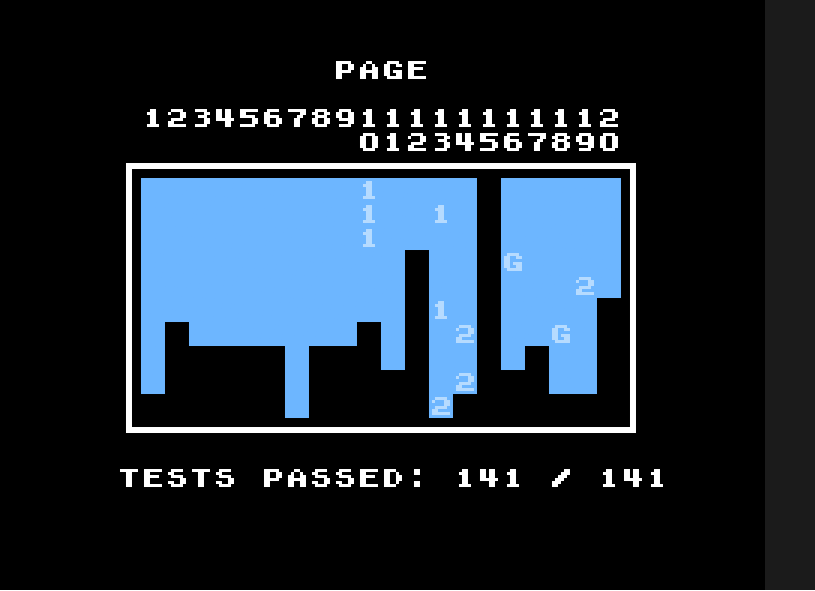
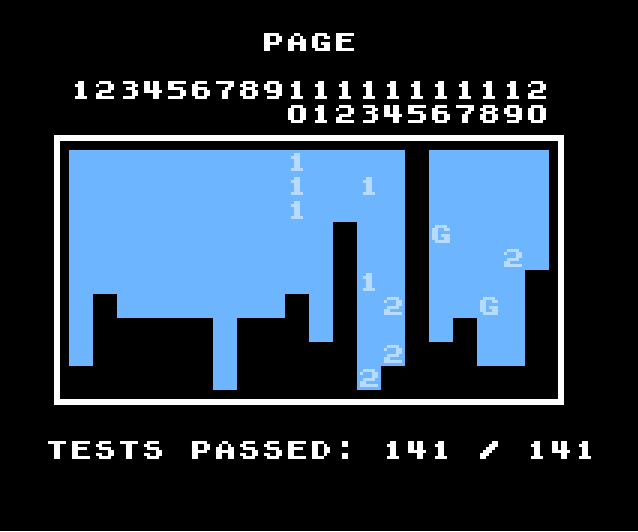
Center updated accuracy results image

Changed region(s): [[0.0, 0.0, 1.0, 1.0]]

diff --git a/README.md b/README.md
@@ -18,7 +18,9 @@ RetroAchievements support.
 [AccuracyCoin's](https://github.com/100thCoin/AccuracyCoin) NTSC NES accuracy
 suite.**
 
-![AccuracyCoin results showing all 141 tests passing](docs/accuracycoin-141-of-141.png)
+<p align="center">
+  <img src="docs/accuracycoin-141-of-141.png" alt="AccuracyCoin results showing all 141 tests passing">
+</p>
 
 That makes CrabNes highly accurate by this measured standard, but no test suite
 can cover every game, mapper, or hardware edge case. Emulation accuracy is an